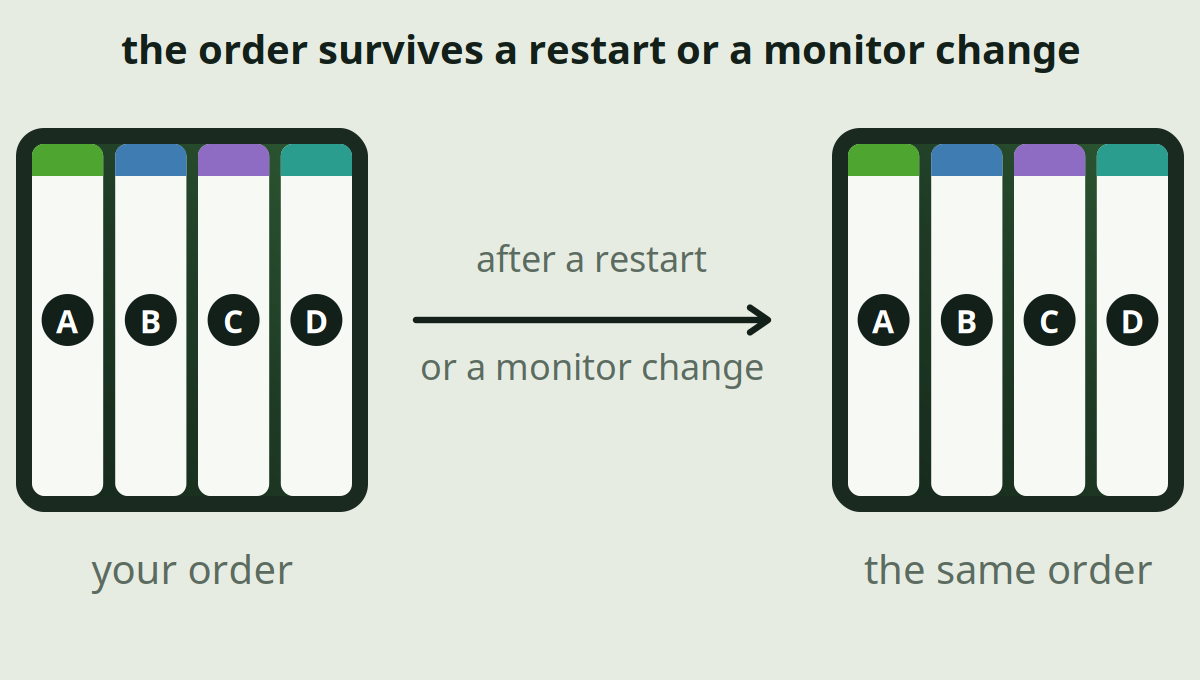
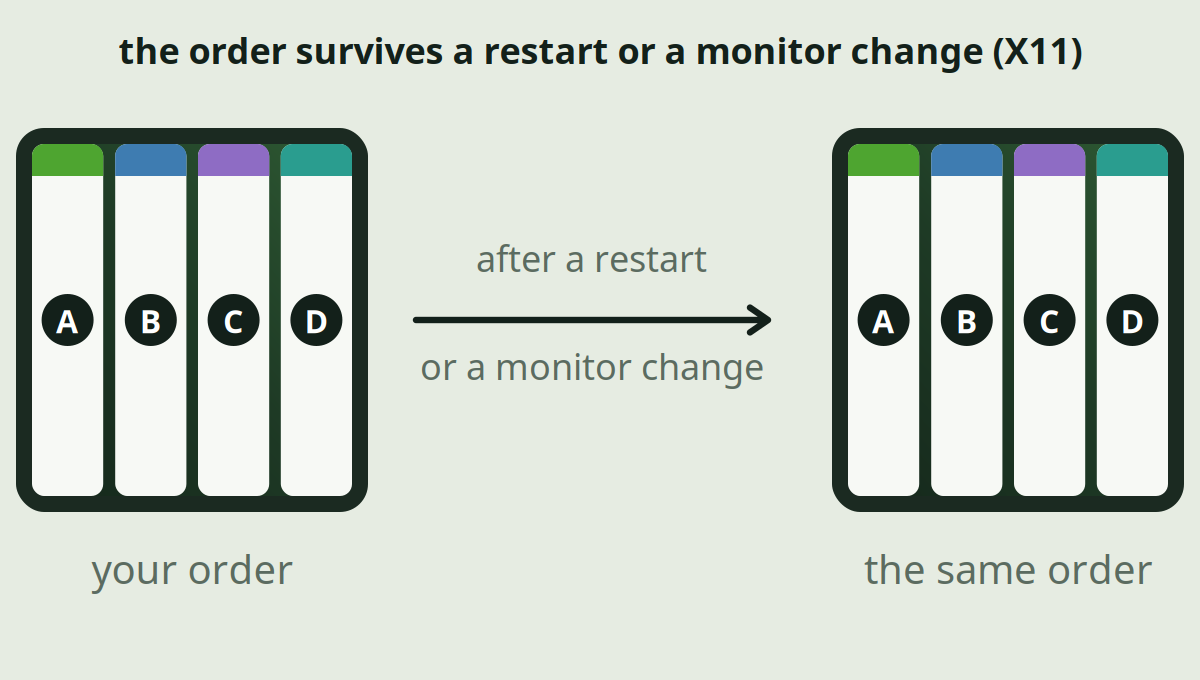
docs(screenshots): X11 on the order schematic, honest pixel sizes
Consequence review fixes:
- order-kept.svg/png: carry the "(X11)" scope the release notes use, so a
  Wayland reader does not take the feature as unconditional.
- README: the desktop shots are 1920x1080, single-center.png is the same
  frame downscaled to 1600x900; the schematics are 1200x680. Also spells out
  that the notes' 1:2:1 example is a user preset (the shipped Wide center is
  1:4:1) and that the .png is the deterministic artifact.

Changed region(s): [[0.0925, 0.0309, 0.925, 0.1235]]

diff --git a/docs/screenshots/2.2.4/README.md b/docs/screenshots/2.2.4/README.md
@@ -2,15 +2,22 @@
 
 One image per release-note point. Screenshots were taken on the released 2.2.4 build
 (`greenTile-2.2.4.zip`, tag `v2.2.4`, identical to `main` at `afbaadf`) in a headless
-Cinnamon 6.6.4 VM at 1920×1080, English UI. The two `.svg` schematics are drawn in the
-style of the figures in `docs/index.html` (same palette and typography) and rendered to
-`.png` with cairosvg.
+Cinnamon 6.6.4 VM, English UI. The two `.svg` schematics are drawn in the style of the
+figures in `docs/index.html` (same palette and typography) and rendered to `.png` with
+cairosvg; the `.png` is the deterministic artifact (the `.svg` names a `JBMono` font it
+does not ship, so a viewer falls back to its own monospace metrics).
 
-Note on the two span screenshots: `spans-editor.png` shows the preset painter for a
-preset whose columns span 1 : 2 : 1 — the example the release notes give for a
-25 / 50 / 25 layout. `spans-desktop.png` shows the shipped **Wide center** starter, which
-is defined as 1 : 4 : 1 (a wide middle column with narrow side columns), so the two
-images are two different presets on purpose.
+Pixel sizes: the two desktop screenshots (`dialog-floats.png`, `spans-desktop.png`) are
+1920×1080; `single-center.png` is the same frame downscaled to 1600×900 to stay under the
+size budget; `span-starters.png` and `spans-editor.png` are cropped to the panel; the two
+schematics are 1200×680.
+
+Note on the span images: the release notes give `1 : 2 : 1` (a 25 / 50 / 25 layout) as the
+example for user-drawn column spans. That ratio is **not** one of the shipped starters, so
+`spans-editor.png` shows the painter on a user preset with spans 1 : 2 : 1. `spans-desktop.png`
+shows the shipped **Wide center** starter, which the schema defines as `spans [1,4,1]` — i.e.
+**1 : 4 : 1** (a wide middle column with narrow side columns), not 25 / 50 / 25. These are two
+different presets on purpose; the four shipped span starters are in `span-starters.png`.
 
 | Point (release notes) | Image | Caption |
 |---|---|---|
@@ -18,6 +25,6 @@ images are two different presets on purpose.
 | Column spans in presets (extra) | `spans-desktop.png` | Three windows tiled by the new **Wide center** preset (1 : 4 : 1) — a wide middle column with narrow side columns. |
 | Four new starter presets that use spans | `span-starters.png` | The preset panel with the four new span starters (Wide center, Wide center + stacks, Two thirds left, Two thirds right); **Wide center** is assigned. |
 | A single window can be centered | `single-center.png` | A single window centred by *Center the window* (about 62 % of the width and 90 % of the height); whole monitor visible. |
-| Window order survives a restart / monitor change | `order-kept.svg` / `order-kept.png` | Four windows keep their left-to-right order after a Cinnamon restart or a monitor change. |
+| Window order survives a restart / monitor change (X11) | `order-kept.svg` / `order-kept.png` | Four windows keep their left-to-right order after a Cinnamon restart or a monitor change. X11 only — on Wayland the order is not restored. |
 | A preset card click is binding | `binding-click.svg` / `binding-click.png` | Clicking a card clears the sizes you dragged and applies the preset's own layout. |
 | Dialogs are never tiled | `dialog-floats.png` | The greenTile settings dialog floats over the tiled windows (it is a default entry in the *Never tile* list). |
